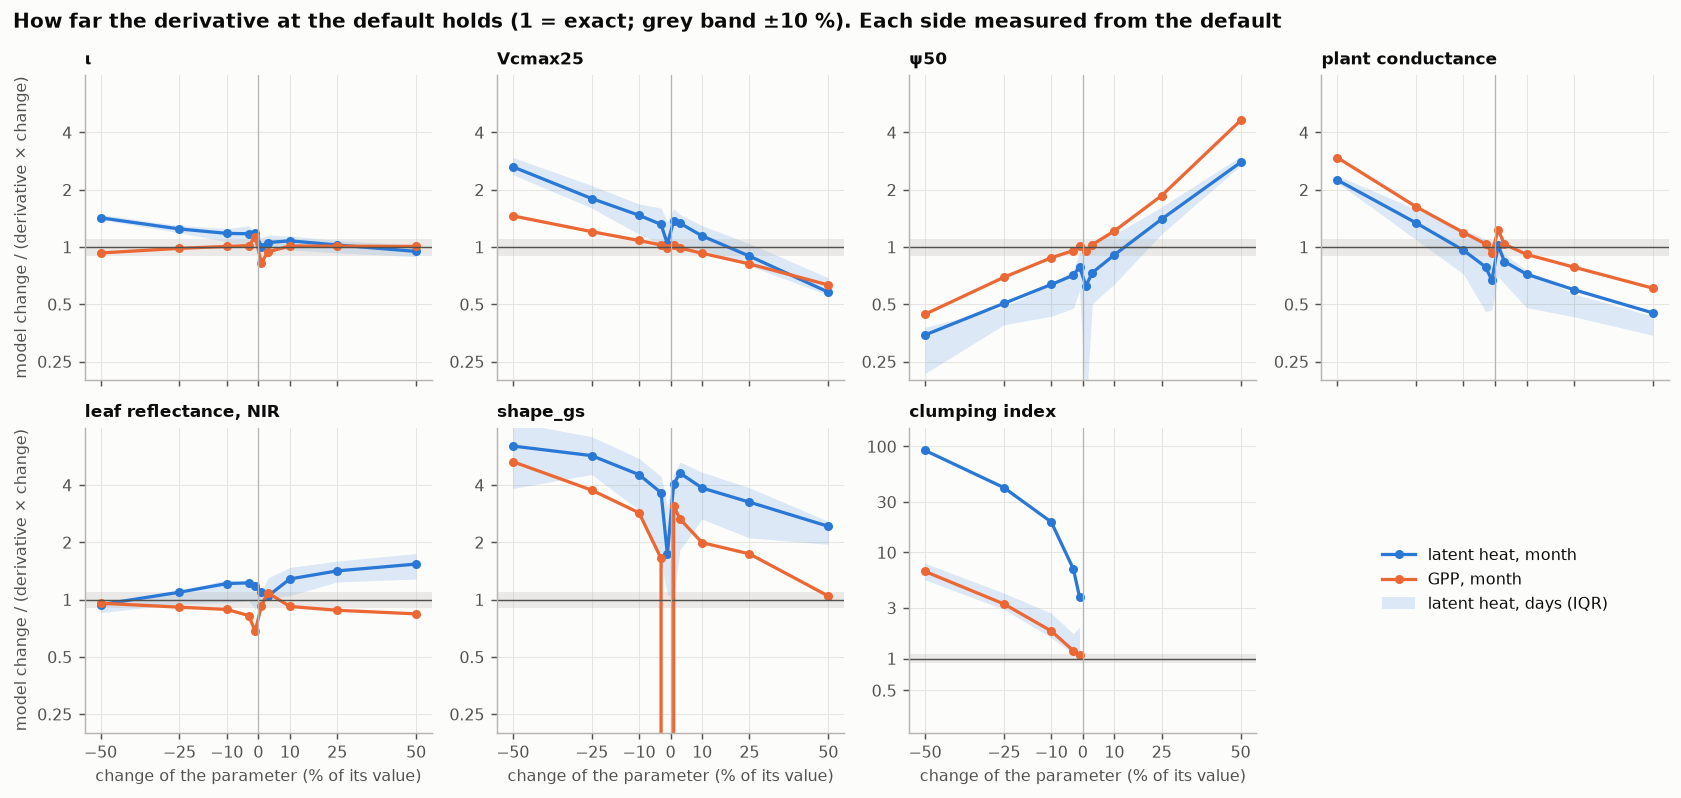
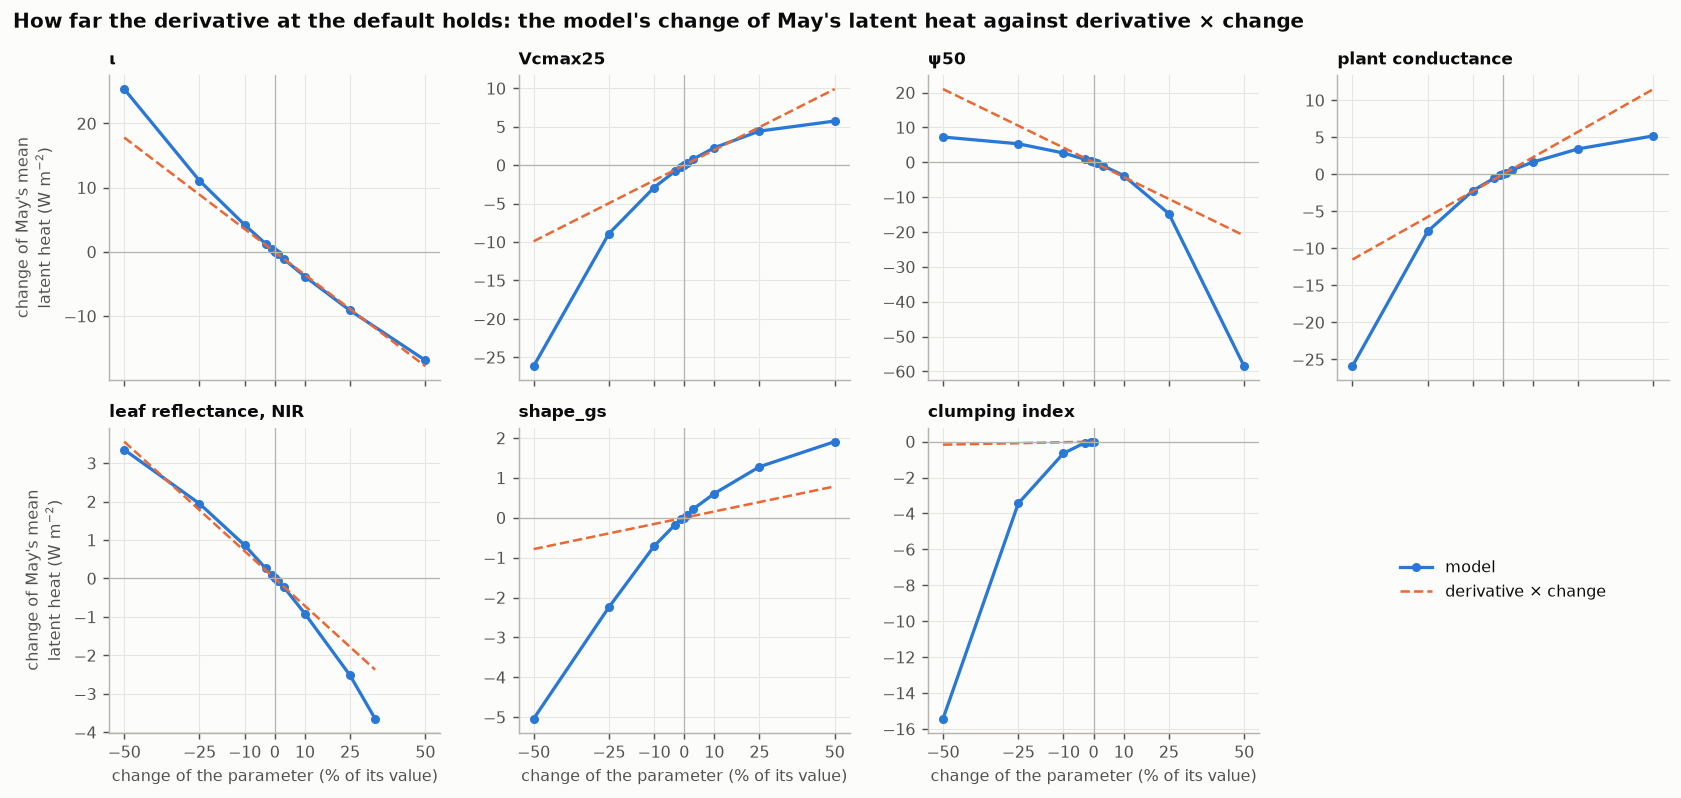
CHATS gradient experiments: the ladder figure shows the change of latent heat, model against derivative (O82)

diff --git a/experiments/chats_gradients/plots.py b/experiments/chats_gradients/plots.py
@@ -947,7 +947,7 @@ if want("scatter") and len(glob.glob(str(EXD / "may2007_*_01.npz"))) >= 31:
     def sym_ticks(typ, lim):
         """0 and ±powers of ten every three decades from the typical size up to the limit."""
         e = np.arange(np.ceil(np.log10(typ)), np.log10(lim) + 1e-9, 3)
-        return np.concatenate([-(10.0 ** e[::-1]), [0.0], 10.0 ** e])
+        return np.concatenate([-(10.0 ** e[::-1]), [0.0], 10.0**e])
 
     def tick_label(x):
         return "0" if x == 0 else f"{'-' if x < 0 else ''}1e{int(round(np.log10(abs(x))))}"
@@ -1173,10 +1173,11 @@ if want("locality") and (LOC / "oat_31d_00.npz").exists():
     days = [np.load(f) for f in sorted(glob.glob(str(LOC / "oat_1d_*.npz")))]
     idx, lad = mon["idx"], mon["ladder"]
     names = [str(n) for n in mon["names"][idx]]
-    steps = np.concatenate([-lad[::-1], lad]) * 100
     for m, v in [(1, "latent heat"), (3, "GPP")]:
         r, d = one_sided(mon, m)
-        say(f"month, mean {v}: (model change)/(derivative × change) at -50 -25 -10 -3 -1 | +1 +3 +10 +25 +50 %")
+        say(
+            f"month, mean {v}: (model change)/(derivative × change) at -50 -25 -10 -3 -1 | +1 +3 +10 +25 +50 %"
+        )
         for j, n in enumerate(names):
             if np.nanmax(np.abs(d[:, -1, j])) < (0.5 if m == 1 else 0.05):
                 continue
@@ -1184,38 +1185,34 @@ if want("locality") and (LOC / "oat_31d_00.npz").exists():
                 " ".join(f"{x:5.2f}" for x in r[1, :, j]),
                 f"| change at -50/+50 %: {d[0, -1, j]:6.1f} {d[1, -1, j]:6.1f}")  # fmt: skip
 
-    # 1. the ladder: one-sided ratio against the size of the change
+    # 1. the ladder: the change of May's latent heat, the model against the derivative
     show = SWEPT + ["clumping_index"]
     fig, axes = plt.subplots(2, 4, figsize=(13, 6.2), sharex=True)
     for ax, p in zip(axes.flat, show):
         j = names.index(p)
-        for m, col, lab_ in [(1, C[0], "latent heat"), (3, C[1], "GPP")]:
-            r, _ = one_sided(mon, m)
-            ax.plot(steps, np.concatenate([r[0, ::-1, j], r[1, :, j]]), color=col, marker="o",
-                    ms=4, label=f"{lab_}, month")  # fmt: skip
-        rd = np.array([one_sided(z, 1)[0][:, :, j] for z in days])  # (day, side, step)
-        rd = np.concatenate([rd[:, 0, ::-1], rd[:, 1]], axis=1)
-        lo_, mid, hi_ = np.nanpercentile(rd, [25, 50, 75], axis=0)
-        ax.fill_between(steps, lo_, hi_, color=C[0], alpha=0.15, lw=0, label="latent heat, days (IQR)")
-        ax.axhspan(0.9, 1.1, color=GREY, alpha=0.25, lw=0)
-        ax.axhline(1, color=INK2, lw=0.8)
+        _, d = one_sided(mon, 1)  # model change (side, step, parameter)
+        dx = mon["x"][:, :, j] - mon["x0"][mon["idx"][j]]
+        moved = np.abs(dx) > 0  # clumping: only smaller values (its default is its cap)
+        keep = np.concatenate([moved[0, ::-1], [True], moved[1]])
+        md = np.concatenate([d[0, ::-1, j], [0], d[1, :, j]])
+        pr = mon["dq"][j, 1] * np.concatenate([dx[0, ::-1], [0], dx[1]])
+        # the change actually made (a cap can shorten the last steps), in % of the default
+        xp = 100 * np.concatenate([dx[0, ::-1], [0], dx[1]]) / abs(mon["x0"][mon["idx"][j]])
+        ax.plot(xp[keep], md[keep], color=C[0], marker="o", ms=4, label="model")
+        ax.plot(xp[keep], pr[keep], color=C[1], ls="--", lw=1.4, label="derivative × change")
+        ax.axhline(0, color=GREY, lw=0.7)
         ax.axvline(0, color=GREY, lw=0.7)
-        ax.set_yscale("log")
-        ax.set_ylim(0.2, 8 if p != "clumping_index" else 150)
-        ticks = [0.25, 0.5, 1, 2, 4] if p != "clumping_index" else [0.5, 1, 3, 10, 30, 100]
-        ax.set_yticks(ticks, [f"{t:g}" for t in ticks])
-        ax.minorticks_off()
         ax.set_title(PRETTY[p])
         ax.set_xticks([-50, -25, -10, 0, 10, 25, 50])
     axes.flat[-1].axis("off")
     for ax in axes[-1]:
         ax.set_xlabel("change of the parameter (% of its value)")
     for ax in axes[:, 0]:
-        ax.set_ylabel("model change / (derivative × change)")
+        ax.set_ylabel("change of May's mean\nlatent heat (W m$^{-2}$)")
     h, lb = axes.flat[0].get_legend_handles_labels()
     axes.flat[-1].legend(h, lb, loc="center")
-    fig.suptitle("How far the derivative at the default holds (1 = exact; grey band ±10 %). "
-                 "Each side measured from the default", x=0.01, ha="left", fontweight="bold")  # fmt: skip
+    fig.suptitle("How far the derivative at the default holds: the model's change of May's latent heat "
+                 "against derivative × change", x=0.01, ha="left", fontweight="bold")  # fmt: skip
     fig.tight_layout()
     save(fig, "locality_ladder.png")
 
@@ -1241,7 +1238,11 @@ if want("locality") and len(glob.glob(str(LOC / "sweep_*.npz"))) >= 18:
             pad = 0.15 * (hi_ - lo_ + 1)
             ax.set_ylim(lo_ - pad, hi_ + pad)
         ax = axes[2, c_]
-        for t, col, lab_ in [("31d_00", C[0], "May"), ("1d_02", C[2], "3 May"), ("1d_08", C[3], "9 May")]:
+        for t, col, lab_ in [
+            ("31d_00", C[0], "May"),
+            ("1d_02", C[2], "3 May"),
+            ("1d_08", C[3], "9 May"),
+        ]:
             zz = zs[t]
             ax.plot(zz["values"], stress_share(zz, {p: zz["values"]}), color=col, label=lab_)
         ax.axvline(x0, color=INK2, lw=0.8)
@@ -1310,7 +1311,10 @@ if want("locality") and len(glob.glob(str(LOC / "grid_*_31d_00.npz"))) >= 3:
             fig.colorbar(im, ax=ax, shrink=0.85)
             if r_ > 0 and r_ < 4:
                 rms = np.sqrt(np.mean(val**2))
-                ax.set_title(f"{title}\nrms {rms:.1f}, largest {np.abs(val).max():.0f} W m$^{{-2}}$", fontsize=8.5)
+                ax.set_title(
+                    f"{title}\nrms {rms:.1f}, largest {np.abs(val).max():.0f} W m$^{{-2}}$",
+                    fontsize=8.5,
+                )
                 say(f"grid {pr}: {title}: rms {rms:.1f}, largest {np.abs(val).max():.0f} W m-2")
             else:
                 ax.set_title(title, fontsize=8.5)

diff --git a/experiments/chats_gradients/README.md b/experiments/chats_gradients/README.md
@@ -474,8 +474,8 @@ Task files: `tasks/s8a.txt` (32 commands, about an hour on one node) and `tasks/
 
 ### Step 8 results (2026-11-17)
 
-**8a, one at a time on the ladder** (`figures/locality_ladder.png`; numbers in
-`summary.txt`). Each side is measured from the default on its own: a change from the
+**8a, one at a time on the ladder** (`figures/locality_ladder.png`: the model's change of
+May's mean latent heat against derivative × change; the ratios below are in `summary.txt`). Each side is measured from the default on its own: a change from the
 minimum to the maximum cancels most of the curvature and overstates how far the derivative
 holds. The ratio at ±1 % is not 1 for every parameter: on stressed days the default
 (stabilized) derivative differs from the model already there (result 2), so how far the
